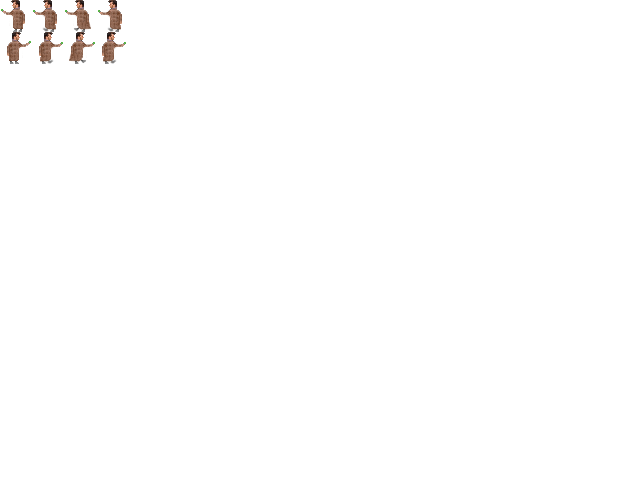
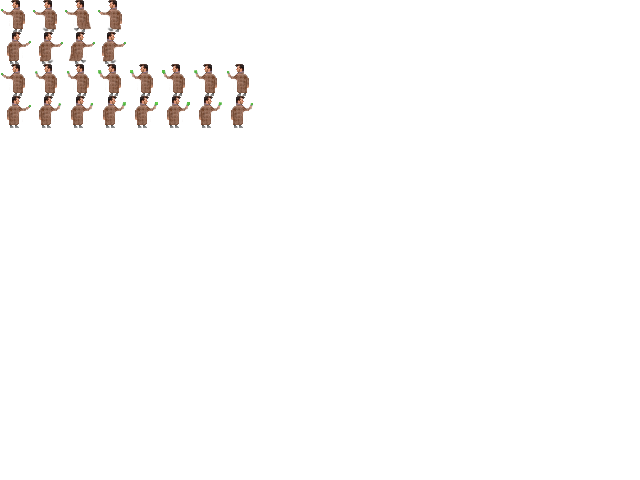
Improve and combine animations.

Changed region(s): [[0.0, 0.125, 0.4062, 0.2812]]

diff --git a/projects/ld30/v1/js/application/sprites.js b/projects/ld30/v1/js/application/sprites.js
@@ -76,15 +76,33 @@ spriteMapper.addImage('empty', 'sprites', 32, 0);
 spriteMapper.addImage('player-left', 'player', 0, 0);
 spriteMapper.addImage('player-right', 'player', 0, 32);
 
-spriteMapper.addImage('player-left-walk0', 'player', 0, 0);
-spriteMapper.addImage('player-left-walk1', 'player', 32, 0);
-spriteMapper.addImage('player-left-walk2', 'player', 64, 0);
-spriteMapper.addImage('player-left-walk3', 'player', 96, 0);
+spriteMapper.addImage('player-left-walk0', 'player', 0, 16, 32, 16);
+spriteMapper.addImage('player-left-walk1', 'player', 32, 16, 32, 16);
+spriteMapper.addImage('player-left-walk2', 'player', 64, 16, 32, 16);
+spriteMapper.addImage('player-left-walk3', 'player', 96, 16, 32, 16);
 
-spriteMapper.addImage('player-right-walk0', 'player', 0, 32);
-spriteMapper.addImage('player-right-walk1', 'player', 32, 32);
-spriteMapper.addImage('player-right-walk2', 'player', 64, 32);
-spriteMapper.addImage('player-right-walk3', 'player', 96, 32);
+spriteMapper.addImage('player-right-walk0', 'player', 0, 48, 32, 16);
+spriteMapper.addImage('player-right-walk1', 'player', 32, 48, 32, 16);
+spriteMapper.addImage('player-right-walk2', 'player', 64, 48, 32, 16);
+spriteMapper.addImage('player-right-walk3', 'player', 96, 48, 32, 16);
+
+spriteMapper.addImage('player-left-attack0', 'player', 0, 64, 32, 16);
+spriteMapper.addImage('player-left-attack1', 'player', 32, 64, 32, 16);
+spriteMapper.addImage('player-left-attack2', 'player', 64, 64, 32, 16);
+spriteMapper.addImage('player-left-attack3', 'player', 96, 64, 32, 16);
+spriteMapper.addImage('player-left-attack4', 'player', 128, 64, 32, 16);
+spriteMapper.addImage('player-left-attack5', 'player', 160, 64, 32, 16);
+spriteMapper.addImage('player-left-attack6', 'player', 192, 64, 32, 16);
+spriteMapper.addImage('player-left-attack7', 'player', 224, 64, 32, 16);
+
+spriteMapper.addImage('player-right-attack0', 'player', 0, 96, 32, 16);
+spriteMapper.addImage('player-right-attack1', 'player', 32, 96, 32, 16);
+spriteMapper.addImage('player-right-attack2', 'player', 64, 96, 32, 16);
+spriteMapper.addImage('player-right-attack3', 'player', 96, 96, 32, 16);
+spriteMapper.addImage('player-right-attack4', 'player', 128, 96, 32, 16);
+spriteMapper.addImage('player-right-attack5', 'player', 160, 96, 32, 16);
+spriteMapper.addImage('player-right-attack6', 'player', 192, 96, 32, 16);
+spriteMapper.addImage('player-right-attack7', 'player', 224, 96, 32, 16);
 
 spriteMapper.addImage('solid', 'solid', 0, 0);
 

diff --git a/projects/ld30/v1/js/application/player.js b/projects/ld30/v1/js/application/player.js
@@ -14,6 +14,8 @@ var Player = function(x, y) {
     this.yVelocity = 0;
     
     this.walk = 0;
+    this.attack = 0;
+    this.isAttacking = false;
 }
 
 Player.prototype.moveLeft = function() {
@@ -91,6 +93,27 @@ Player.prototype.moveRight = function() {
             var right = ((rightX-1) * 32) - this.x;
             this.x += right;
         }
+    }
+}
+
+Player.prototype.doAttack = function() {
+    if (this.isAttacking == false) {
+        this.isAttacking = true;
+        
+        /*
+        if (phoneBooth.fading == 8) {
+            phoneBooth.fadeIn();
+        } else {
+            phoneBooth.fadeOut();
+        }
+        */
+        /*
+        if (phoneBooth.opening == 0) {
+            phoneBooth.open();
+        } else {
+            phoneBooth.close();
+        }
+        */
     }
 }
 
@@ -205,8 +228,18 @@ Player.prototype.draw = function(frame) {
         }
     }
     
+    var walkSprite = sprite;
+    var attackSprite = sprite;
+    attackSprite += "-attack" + this.attack;
+    if (this.isAttacking) {
+        if (this.attack === 7) {
+            this.attack = -1;
+            this.isAttacking = false;
+        }
+        this.attack ++;
+    }
+    walkSprite += "-walk" + this.walk;
     if (this.jumpTimer === 0 && this.xVelocity != 0) {
-        sprite += "-walk" + this.walk;
         if (this.walk === 3) {
             this.walk = 0;
         }
@@ -214,6 +247,10 @@ Player.prototype.draw = function(frame) {
             this.walk ++;
         }
     }
-    
-    spriteMapper.getImage(sprite).drawImage(context, 384, 480);
+    if (this.xVelocity === 0) {
+        this.walk = 0;
+    }
+    console.log(attackSprite + ", " + walkSprite);
+    spriteMapper.getImage(attackSprite).drawImage(context, 384, 480);
+    spriteMapper.getImage(walkSprite).drawImage(context, 384, 496);
 }

diff --git a/projects/ld30/v1/js/application/game.js b/projects/ld30/v1/js/application/game.js
@@ -114,19 +114,7 @@ var canvas,
         }
         
         if (40 in keysDown) { // Player holding down
-            /*
-            if (phoneBooth.fading == 8) {
-                phoneBooth.fadeIn();
-            } else {
-                phoneBooth.fadeOut();
-            }
-            */
-            
-            if (phoneBooth.opening == 0) {
-                phoneBooth.open();
-            } else {
-                phoneBooth.close();
-            }
+            player.doAttack();
         }
         
         if (37 in keysDown) { // Player holding left
